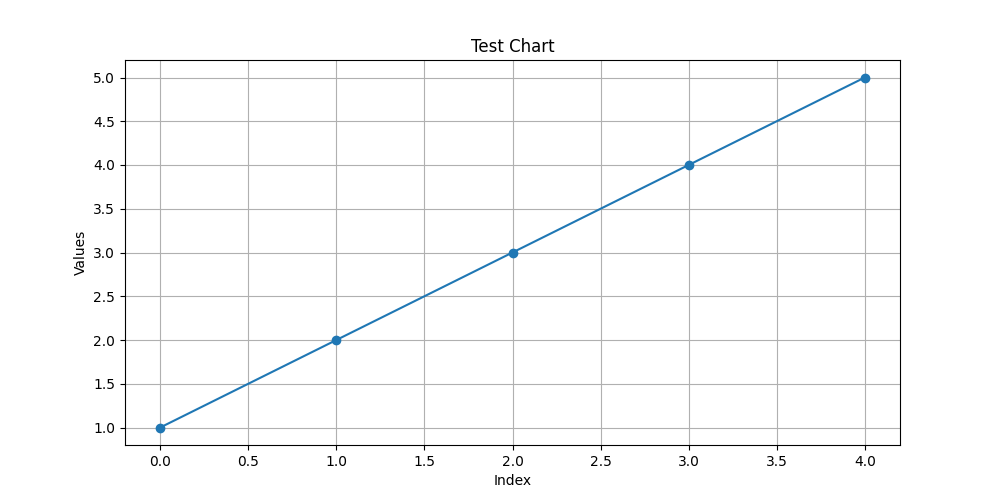
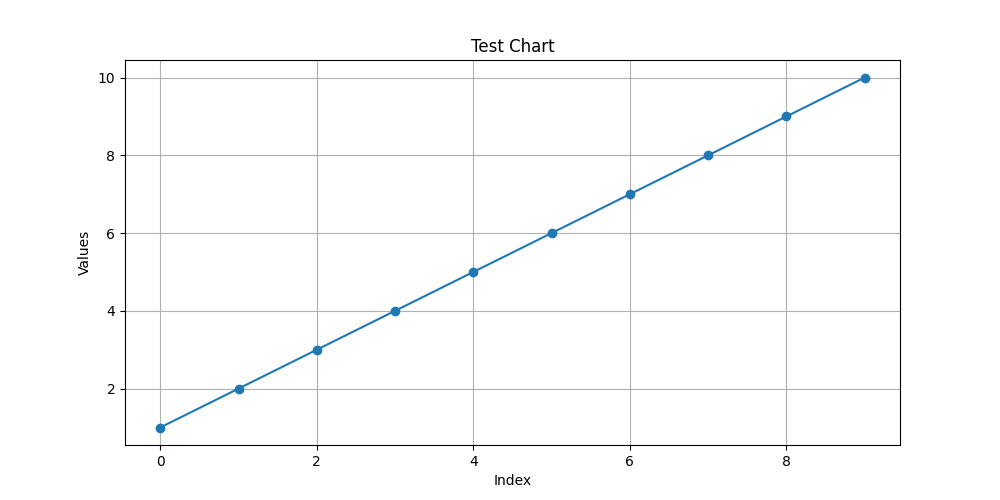
refactor: function expects pure data, not panda

diff --git a/tests/visualization/test_visualization.py b/tests/visualization/test_visualization.py
@@ -1,19 +1,21 @@
 import os
 import tempfile
 import time
+from pathlib import Path
 from unittest.mock import patch
 
 import matplotlib.pyplot as plt  # Import plt here
 import pandas as pd
 import pytest
 
+from trading_kit.exceptions import InvalidDataError
 from trading_kit.utils.visualization import plot_line_chart
 
 
 def test_plot_line_chart(monkeypatch):
     """Test the plot_line_chart function."""
     # Create sample data
-    data = pd.Series([1, 2, 3, 4, 5])
+    data = [1, 2, 3, 4, 5]
 
     # Mock plt.show to prevent the plot from displaying during the test
     monkeypatch.setattr("matplotlib.pyplot.show", lambda: None)
@@ -22,10 +24,29 @@ def test_plot_line_chart(monkeypatch):
     plot_line_chart(data, title="Test Chart", xlabel="Index", ylabel="Values")
 
 
+def test_plot_line_chart_with_x_values(monkeypatch):
+    """Test the plot_line_chart function with custom x_values."""
+    # Create sample data
+    data = [1, 2, 3, 4, 5]
+    x_values = ["A", "B", "C", "D", "E"]
+
+    # Mock plt.show to prevent the plot from displaying during the test
+    monkeypatch.setattr("matplotlib.pyplot.show", lambda: None)
+
+    # Call the function
+    plot_line_chart(
+        data,
+        x_values=x_values,
+        title="Test Chart",
+        xlabel="Categories",
+        ylabel="Values",
+    )
+
+
 def test_plot_line_chart_save():
     """Test the plot_line_chart function and save the plot to a file."""
     # Create sample data
-    data = pd.Series([1, 2, 3, 4, 5])
+    data = [1, 2, 3, 4, 5]
 
     # Use patch to mock plt.savefig
     with patch("matplotlib.pyplot.savefig") as mock_savefig:
@@ -43,12 +64,18 @@ def test_plot_line_chart_save():
 
 
 def test_plot_line_chart_actual_save():
-    """Test the plot_line_chart function and actually save the plot to /tmp."""
+    """Test the plot_line_chart function and actually save the plot to the project's tmp folder."""
     # Create sample data
-    data = pd.Series([1, 2, 3, 4, 5])
+    data = [1, 2, 3, 4, 5, 6, 7, 8, 9, 10]
 
-    # Define the path for the temporary file in /tmp
-    temp_file_path = "tmp/test_chart_actual.png"
+    # Define the path for the file in the project's tmp folder
+    project_root = Path(
+        __file__
+    ).parent.parent.parent  # Go up three levels from the test file
+    tmp_folder = project_root / "tmp"
+    tmp_folder.mkdir(exist_ok=True)  # Create tmp folder if it doesn't exist
+    file_name = "test_chart_actual.png"
+    file_path = tmp_folder / file_name
 
     # Call the function to save the plot
     plot_line_chart(
@@ -56,12 +83,24 @@ def test_plot_line_chart_actual_save():
         title="Test Chart",
         xlabel="Index",
         ylabel="Values",
-        save_path=temp_file_path,
+        save_path=str(file_path),
     )
 
-    # Optional: Wait a moment to ensure the file is written
-    time.sleep(1)
+    # Check if the file was created and has content
+    assert file_path.exists(), f"File {file_path} does not exist"
+    assert file_path.stat().st_size > 0, f"File {file_path} is empty"
 
-    # Check if the file was created
-    assert os.path.exists(temp_file_path)  # Check if the file exists
-    print(f"Plot saved to: {temp_file_path}")  # Print the path for reference
+    print(f"Plot saved to: {file_path}")
+    print("You can now examine the file manually.")
+
+
+def test_invalid_data():
+    """Test that the function raises an error for invalid data."""
+    with pytest.raises(InvalidDataError):
+        plot_line_chart(["a", "b", "c"])
+
+
+def test_invalid_x_values():
+    """Test that the function raises an error when x_values length doesn't match data."""
+    with pytest.raises(InvalidDataError):
+        plot_line_chart([1, 2, 3], x_values=["A", "B"])

diff --git a/src/trading_kit/utils/visualization.py b/src/trading_kit/utils/visualization.py
@@ -1,4 +1,4 @@
-from typing import Optional
+from typing import List, Optional, Union
 
 import matplotlib.pyplot as plt
 import pandas as pd
@@ -7,18 +7,27 @@ from trading_kit.exceptions import InvalidDataError, InvalidThresholdError
 
 
 def plot_line_chart(
-    data: pd.Series,
+    data: Union[List[float], List[int]],
+    x_values: Optional[List[Union[float, int, str]]] = None,
     title: str = "Line Chart",
     xlabel: str = "X-axis",
     ylabel: str = "Y-axis",
     save_path: Optional[str] = None,
 ) -> None:
     """Plot a line chart for the given data and optionally save it to a file."""
-    if not isinstance(data, pd.Series):
-        raise InvalidDataError("Input data must be a pandas Series.")
+    if not isinstance(data, list) or not all(isinstance(x, (int, float)) for x in data):
+        raise InvalidDataError("Input data must be a list of numbers.")
+
+    # Convert data to pandas Series
+    if x_values is None:
+        series = pd.Series(data)
+    else:
+        if len(x_values) != len(data):
+            raise InvalidDataError("x_values must have the same length as data.")
+        series = pd.Series(data, index=x_values)
 
     plt.figure(figsize=(10, 5))
-    plt.plot(data, marker="o")
+    plt.plot(series, marker="o")
     plt.title(title)
     plt.xlabel(xlabel)
     plt.ylabel(ylabel)
